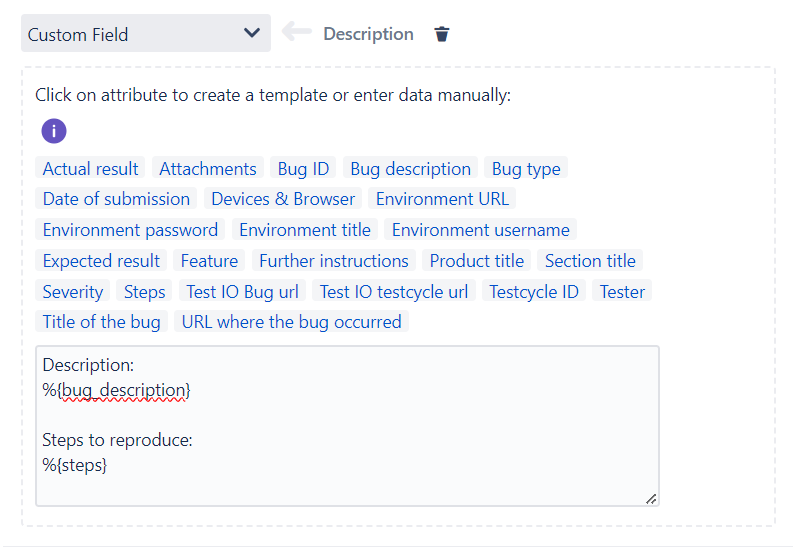
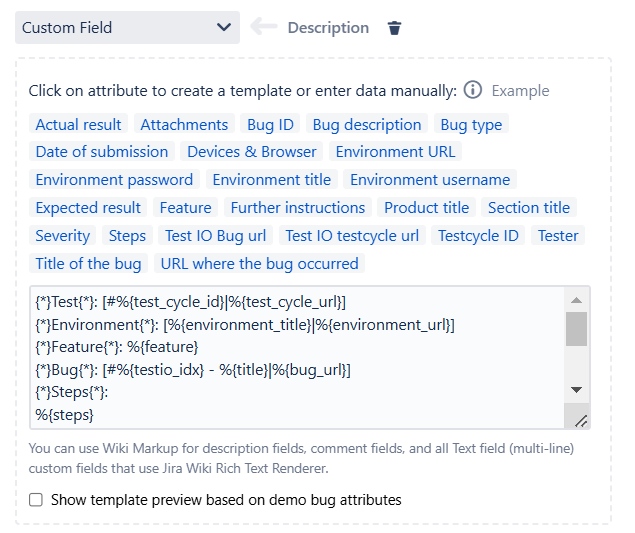
Updates Of Custom field page

diff --git a/src/pages/docs/jira_cloud/custom_field.md b/src/pages/docs/jira_cloud/custom_field.md
@@ -5,12 +5,20 @@ description: Learn how to work with Custom Fields in Configuration.
 
 The Custom Field is a powerful editor that allows you to create pre-formatted bug reports with dynamically changing content, tailored to your preferences. To use the attributes, simply click on them to make them appear in the editor, then use their content as needed.
 
-When working with Custom Fields, you have two options:
+When working with Custom Fields, you have three options:
 
 - **Use predefined attributes**: Click on the attributes to insert them into the editor and enter any additional text.
 - **Enter data manually**: Type directly into the editor to input your custom content.
 
 {% screenshot src="/assets/jira_cloud/config/custom_field.png" caption="Custom Fields in Configuration" /%}
+
+- **Use predefined example with attributes**: Click on 'Example' and copy paste ready example into the editor.
+
+{% screenshot src="/assets/jira_cloud/config/custom_field_example.png" caption="Custom Fields from Example" /%}
+
+After all the attributes are filled, user can see the final result while checking the check box **'Show template preview based on demo bug attributes'**.
+
+{% screenshot src="/assets/jira_cloud/config/custom_preview.png" caption="Preview of Custom Field" /%}
 
 You can find the list of attributes and their corresponding terms in the Test IO Bug Report above:
 {% table .custom %}
